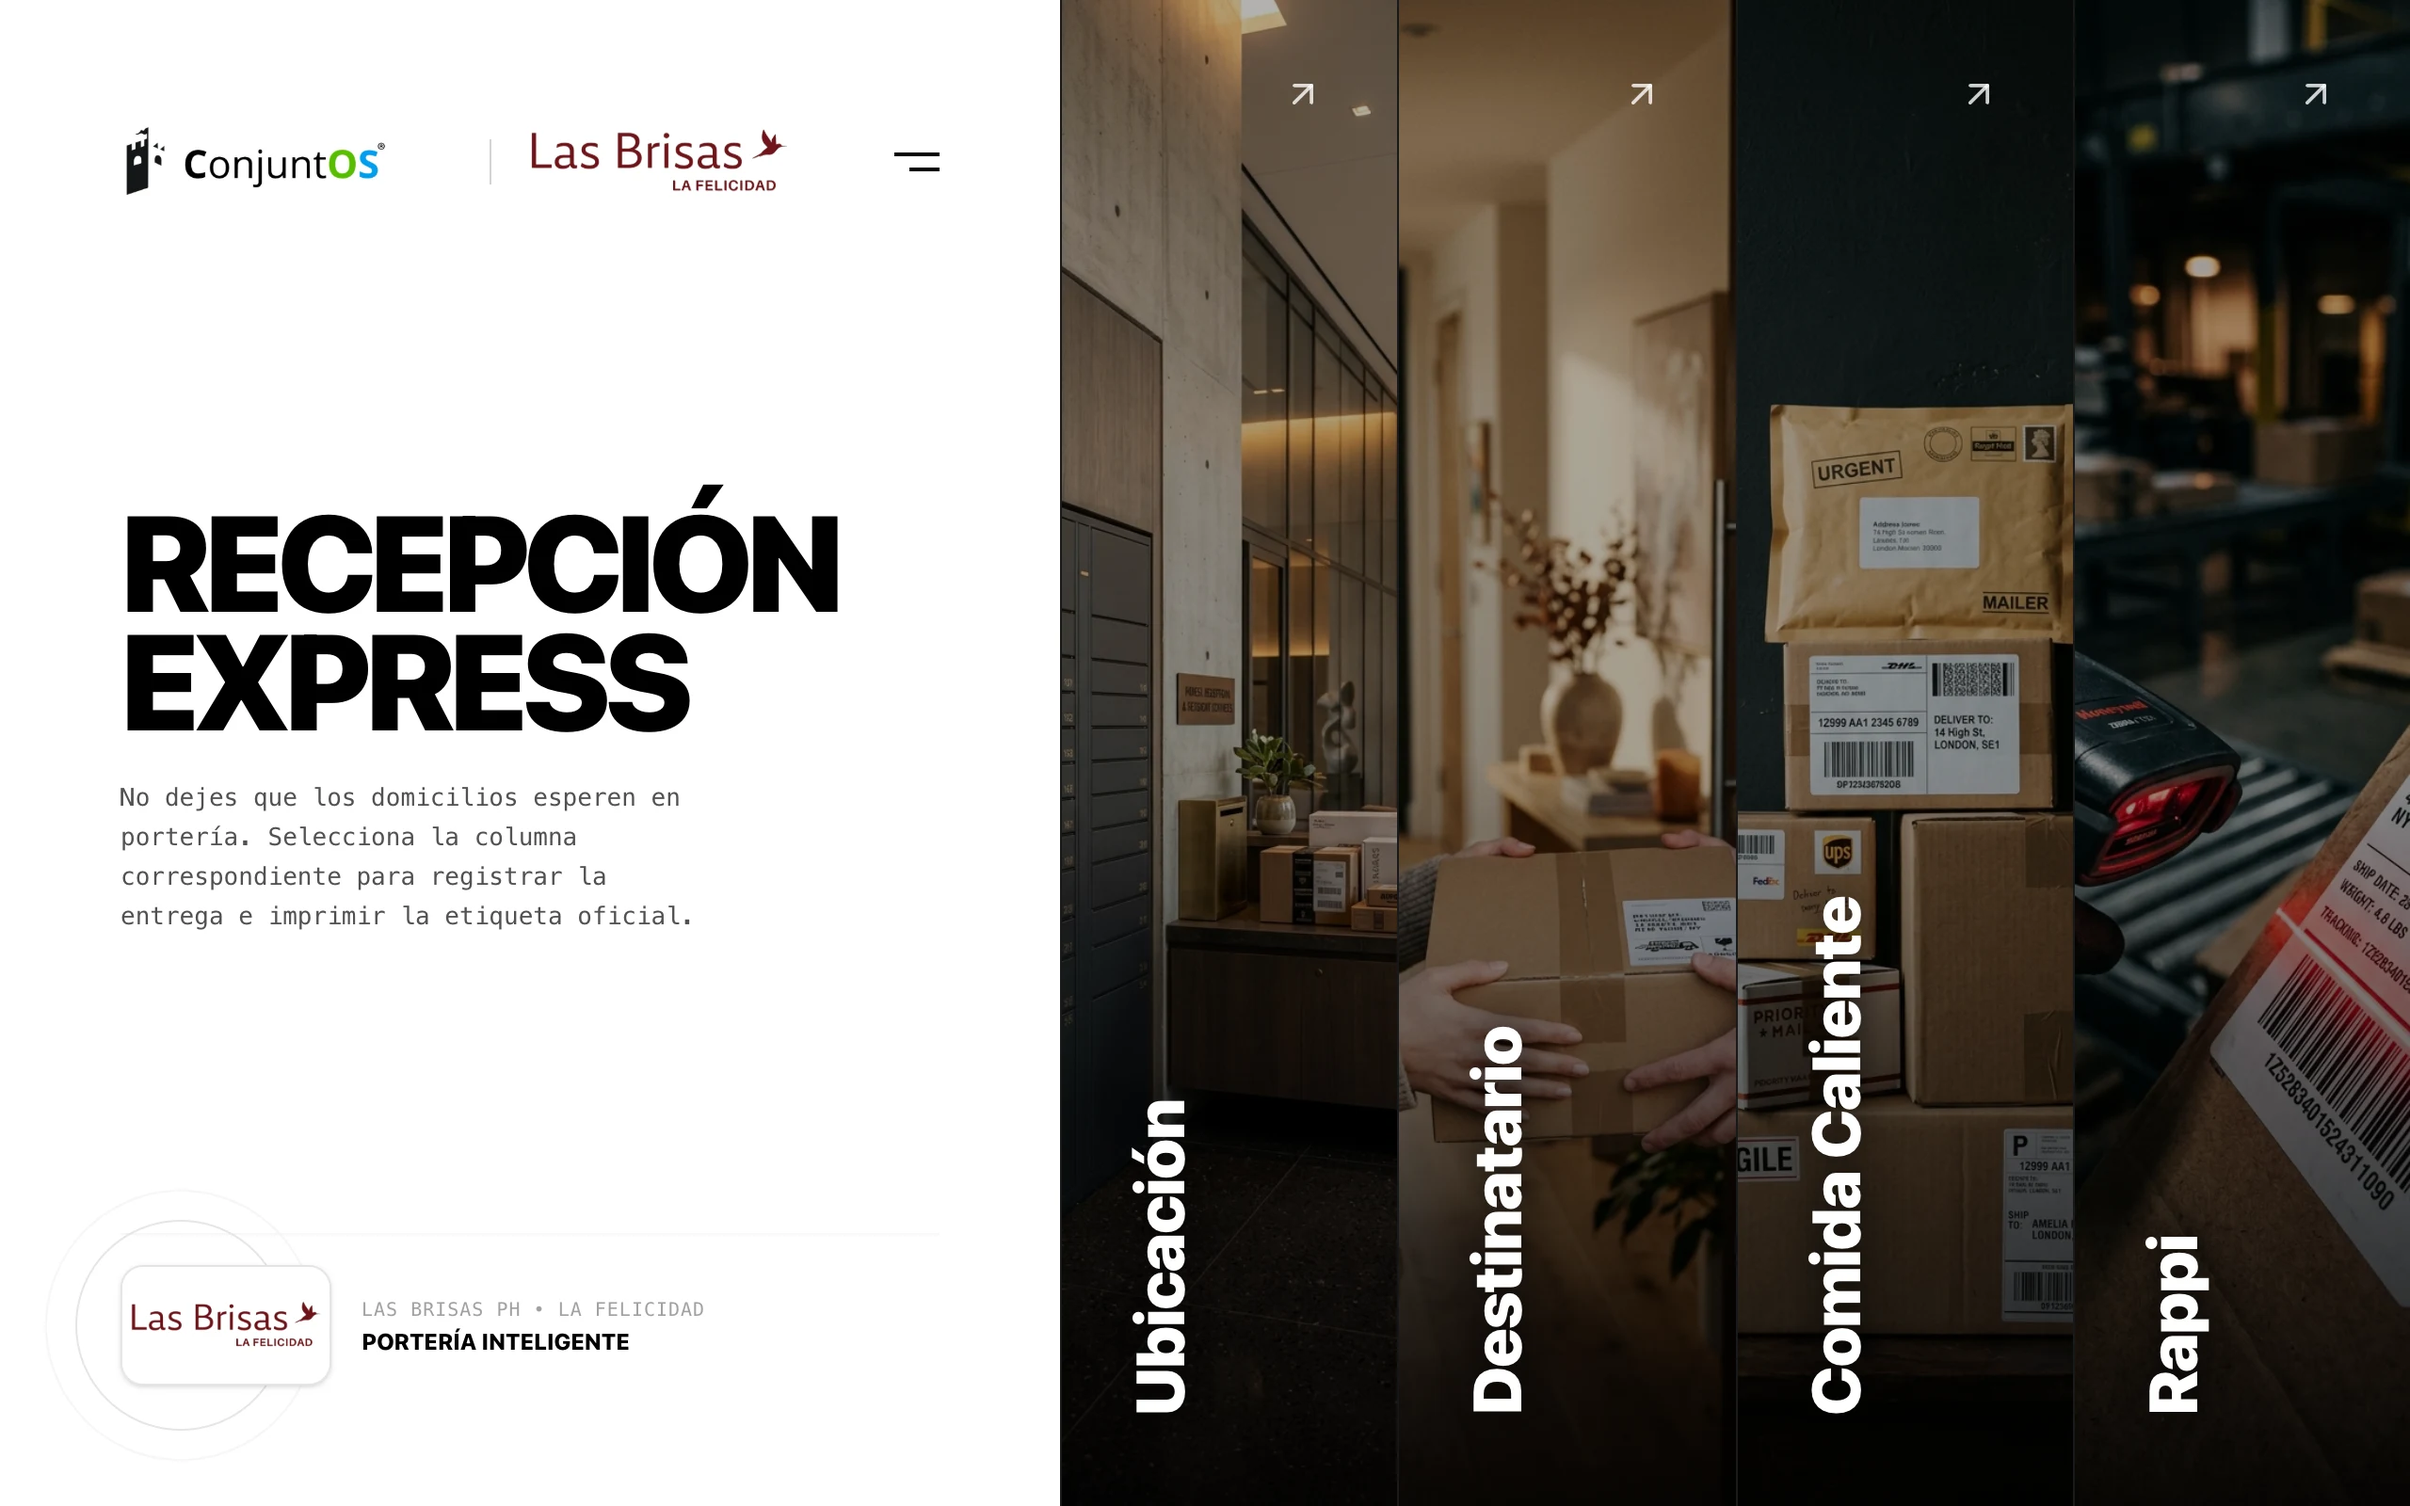
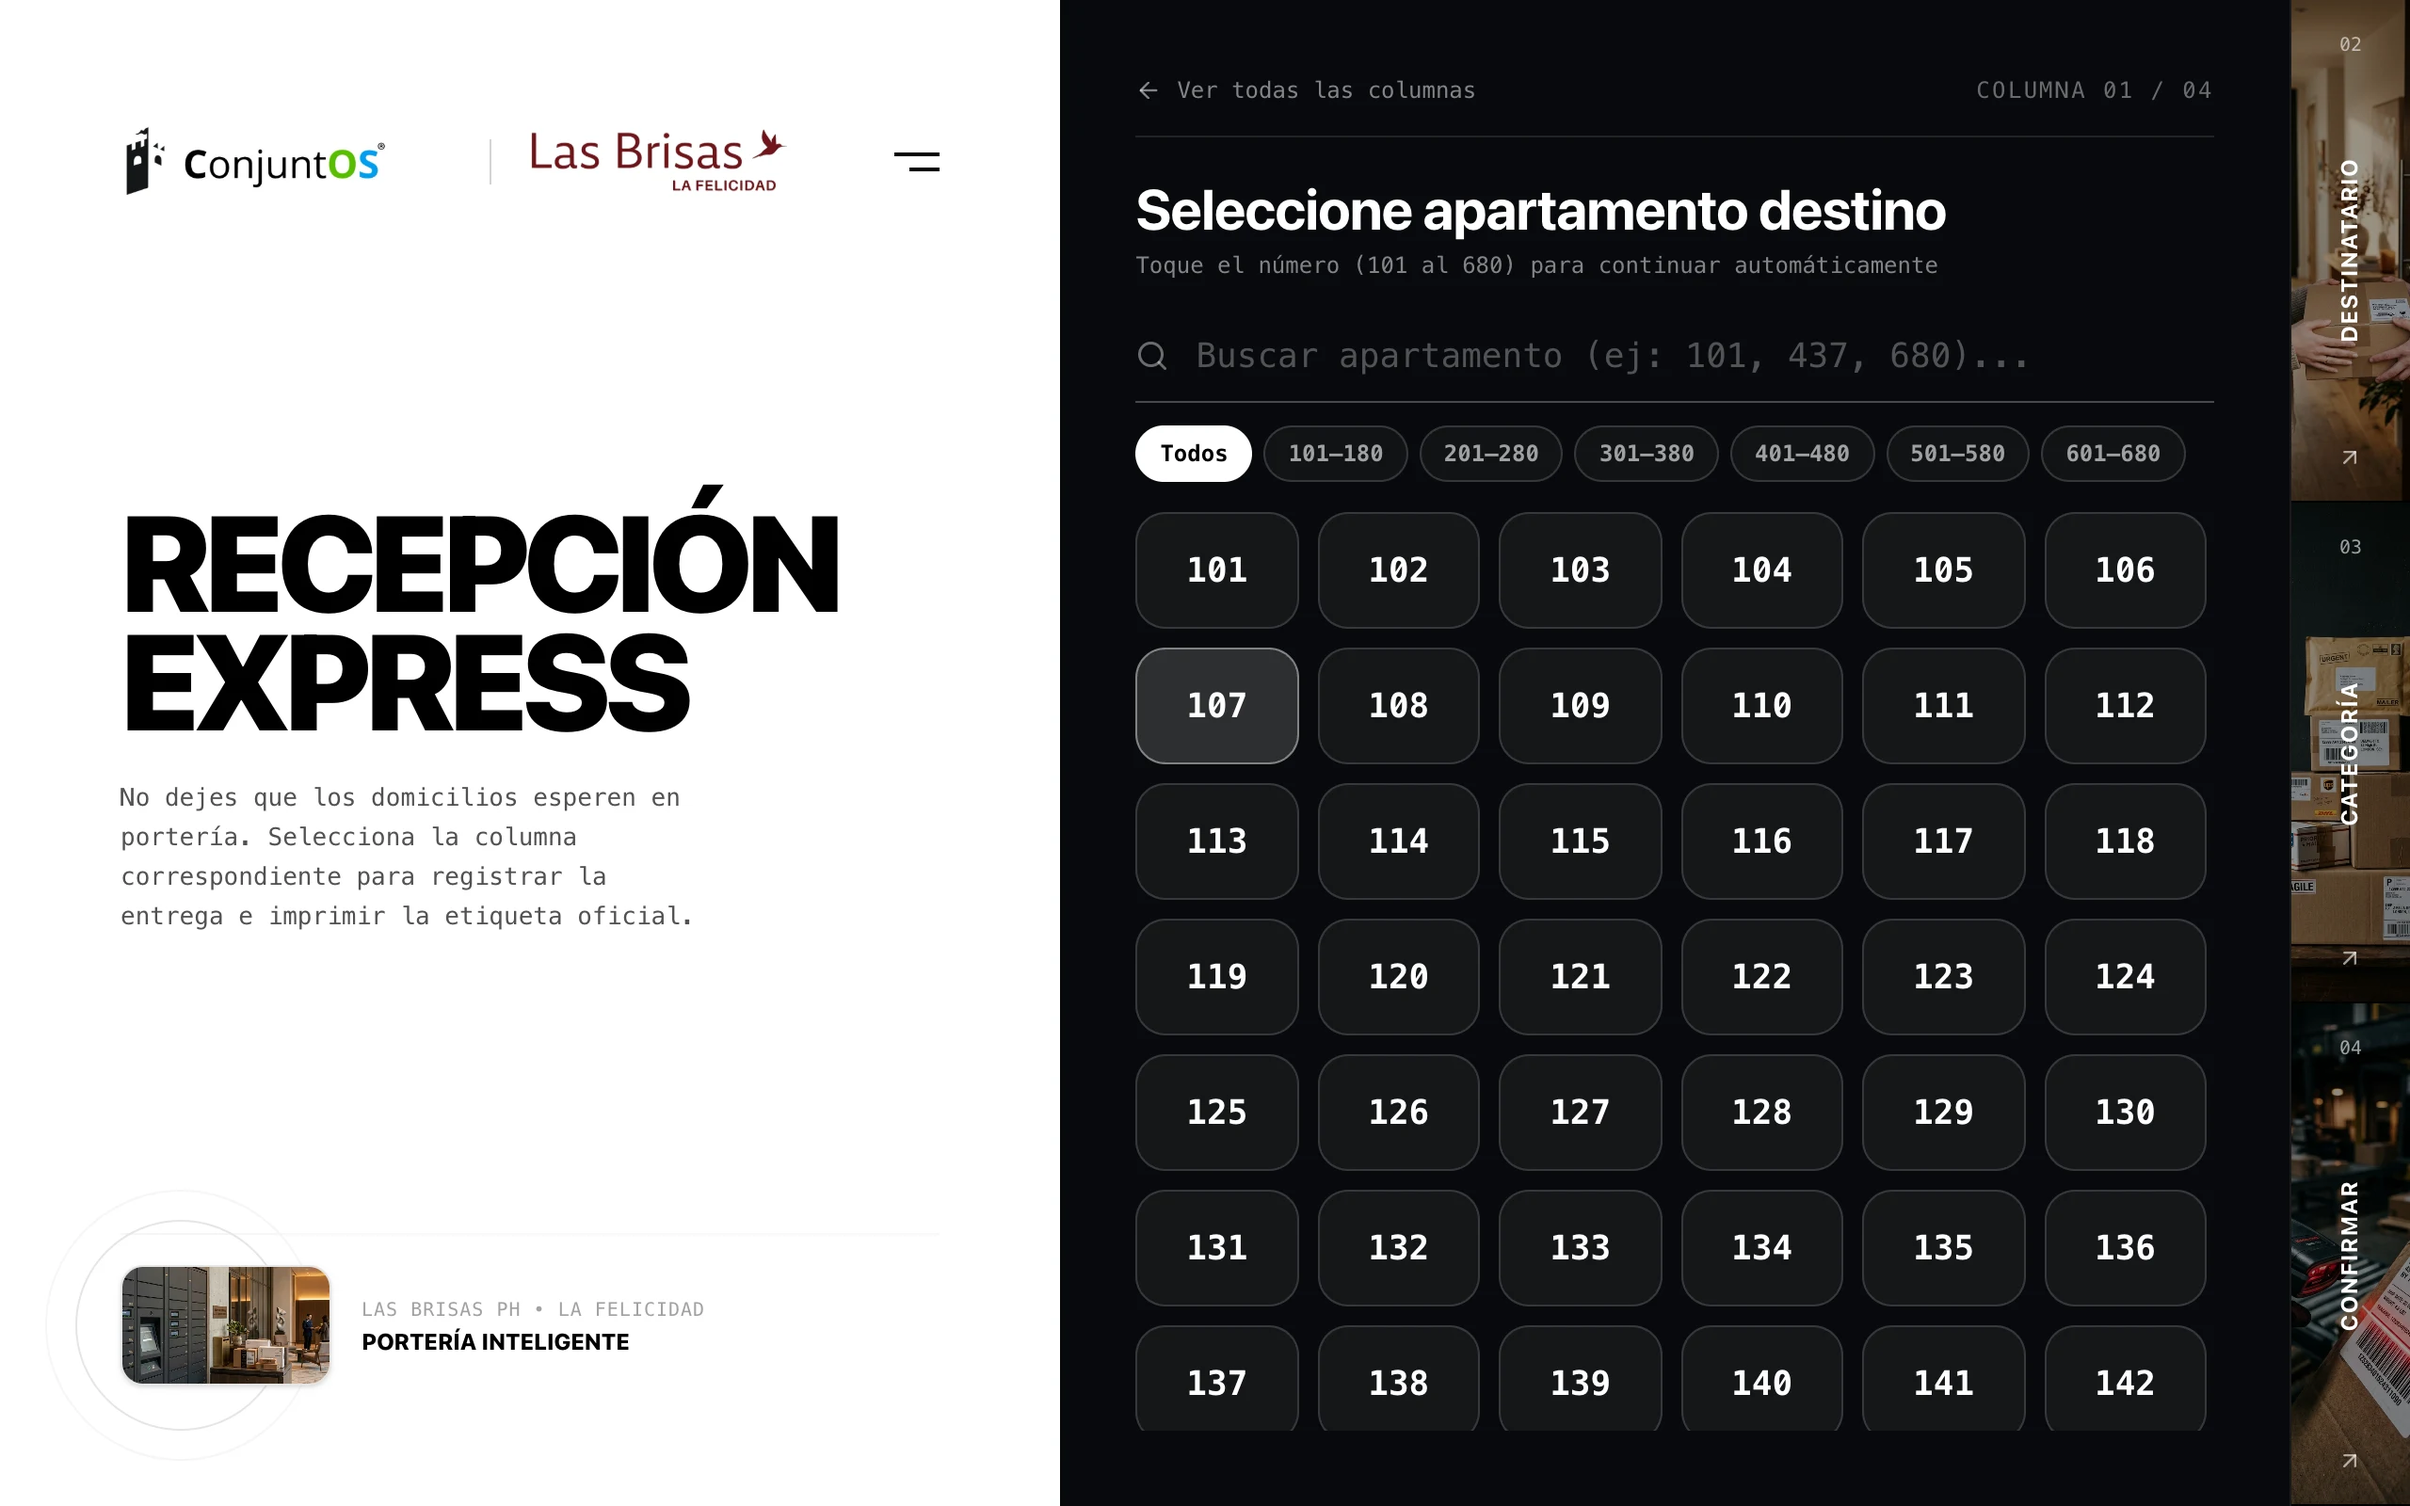
feat(landing): asignar 14 capturas reales únicas sin ninguna imagen repetida en toda la web

diff --git a/landing/src/components/landing/ShowcaseSection.tsx b/landing/src/components/landing/ShowcaseSection.tsx
@@ -2,7 +2,7 @@
 
 import { useEffect, useRef } from "react";
 import Image from "next/image";
-import { CheckCircle2, Network } from "lucide-react";
+import { CheckCircle2, Network, ShieldCheck } from "lucide-react";
 import { gsap } from "gsap";
 import { ScrollTrigger } from "gsap/ScrollTrigger";
 import RevealText from "./RevealText";
@@ -89,16 +89,16 @@ export default function ShowcaseSection() {
             <Image
               fill
               sizes="(max-width: 768px) 100vw, 50vw"
-              src="/img/app/app-pagos.webp"
-              alt="Pagos digitales en la app ConjuntOS"
+              src="/img/app/app-documentos.webp"
+              alt="Biblioteca digital de documentos y actas en ConjuntOS"
               className="object-cover object-top"
               unoptimized
             />
             <div className="absolute bottom-0 inset-x-0 bg-black/90 backdrop-blur-md p-6 flex items-center justify-between border-t border-white/10">
               <div>
-                <p className="text-sm text-white/70 mb-1">Integración Directa</p>
+                <p className="text-sm text-white/70 mb-1">Transparencia Total</p>
                 <h4 className="font-bold text-white text-lg">
-                  Pagos Automatizados con Nequi
+                  Actas, Reglamento y Documentos
                 </h4>
               </div>
               <div className="w-12 h-12 bg-accent/20 border border-accent/30 rounded-full flex items-center justify-center">
@@ -113,26 +113,20 @@ export default function ShowcaseSection() {
             <Image
               fill
               sizes="(max-width: 768px) 100vw, 50vw"
-              src="/img/app/app-visitantes.webp"
-              alt="Control de acceso y visitantes en la app ConjuntOS"
+              src="/img/app/app-perfil.webp"
+              alt="Perfil del residente y gestión de unidad en ConjuntOS"
               className="object-cover object-top"
               unoptimized
             />
           </div>
 
           <div className="showcase-float absolute bottom-8 right-8 bg-black/90 border border-white/15 backdrop-blur-xl p-5 rounded-3xl shadow-2xl flex items-center gap-4 w-72">
-            <div className="relative w-12 h-12 rounded-full bg-accent/10 border border-accent/30 flex items-center justify-center overflow-hidden">
-              <Image
-                fill
-                sizes="48px"
-                src="/img/support.webp"
-                alt="Soporte al residente"
-                className="object-cover opacity-80"
-              />
+            <div className="relative w-12 h-12 rounded-full bg-accent/10 border border-accent/30 flex items-center justify-center shrink-0">
+              <ShieldCheck className="w-6 h-6 text-accent" />
             </div>
             <div>
-              <p className="font-bold text-white text-sm">Accesos, QR & Airbnb</p>
-              <p className="text-xs text-white/70">Visitas, domicilios y estancias cortas</p>
+              <p className="font-bold text-white text-sm">Perfil & Mi Unidad</p>
+              <p className="text-xs text-white/70">Mascotas, vehículos y núcleo familiar</p>
             </div>
           </div>
         </div>

diff --git a/landing/src/components/landing/TeamSection.tsx b/landing/src/components/landing/TeamSection.tsx
@@ -15,24 +15,24 @@ export default function TeamSection() {
   const modules = [
     {
       num: "01",
-      title: "Control de Acceso",
-      subtitle: "Seguridad y Citofonía Virtual",
-      tag: "Seguridad 24/7",
-      img: "/img/app/app-citofonia.webp",
+      title: "Mudanzas Programadas",
+      subtitle: "Solicitudes, paz y salvo y autorización digital",
+      tag: "Cero Filas",
+      img: "/img/app/app-mudanzas.webp",
     },
     {
       num: "02",
-      title: "Gestión Financiera",
-      subtitle: "Pagos Nequi y Conciliación",
-      tag: "Cero Mora",
-      img: "/img/app/app-pagos.webp",
+      title: "Parqueadero Inteligente",
+      subtitle: "Cupos de visitantes, cortesía y control",
+      tag: "Sin Conflictos",
+      img: "/img/app/app-parqueadero.webp",
     },
     {
       num: "03",
-      title: "Reservas de Áreas",
-      subtitle: "Piscinas, Salones y Gimnasio",
-      tag: "Sin Filas",
-      img: "/img/app/app-reservas.webp",
+      title: "PQRS y Convivencia",
+      subtitle: "Peticiones, quejas y seguimiento en vivo",
+      tag: "Trazabilidad",
+      img: "/img/app/app-pqrs.webp",
     },
   ];
 

diff --git a/landing/src/components/landing/ProductsSection.tsx b/landing/src/components/landing/ProductsSection.tsx
@@ -28,11 +28,11 @@ export default function ProductsSection() {
       desc: "Controla huéspedes de rentas cortas con check-in y check-out exactos, QR con vencimiento automático y portal privado Mi Estancia para el huésped.",
     },
     {
-      name: "Kiosko de Portería Express",
-      badge: "Recepción",
-      img: "/img/app/kiosko-home.webp",
-      position: "object-center",
-      desc: "Tablet táctil para domicilios, comida caliente y paquetería con impresión de etiqueta oficial, aviso inmediato al residente y modo espera con pauta QR.",
+      name: "Encuestas y Participación",
+      badge: "Comunidad",
+      img: "/img/app/app-encuestas.webp",
+      position: "object-top",
+      desc: "Consulta la opinión de los residentes en segundos, toma decisiones transparentes y mide resultados en tiempo real desde la app.",
     },
     {
       name: "Pagos de Administración",
